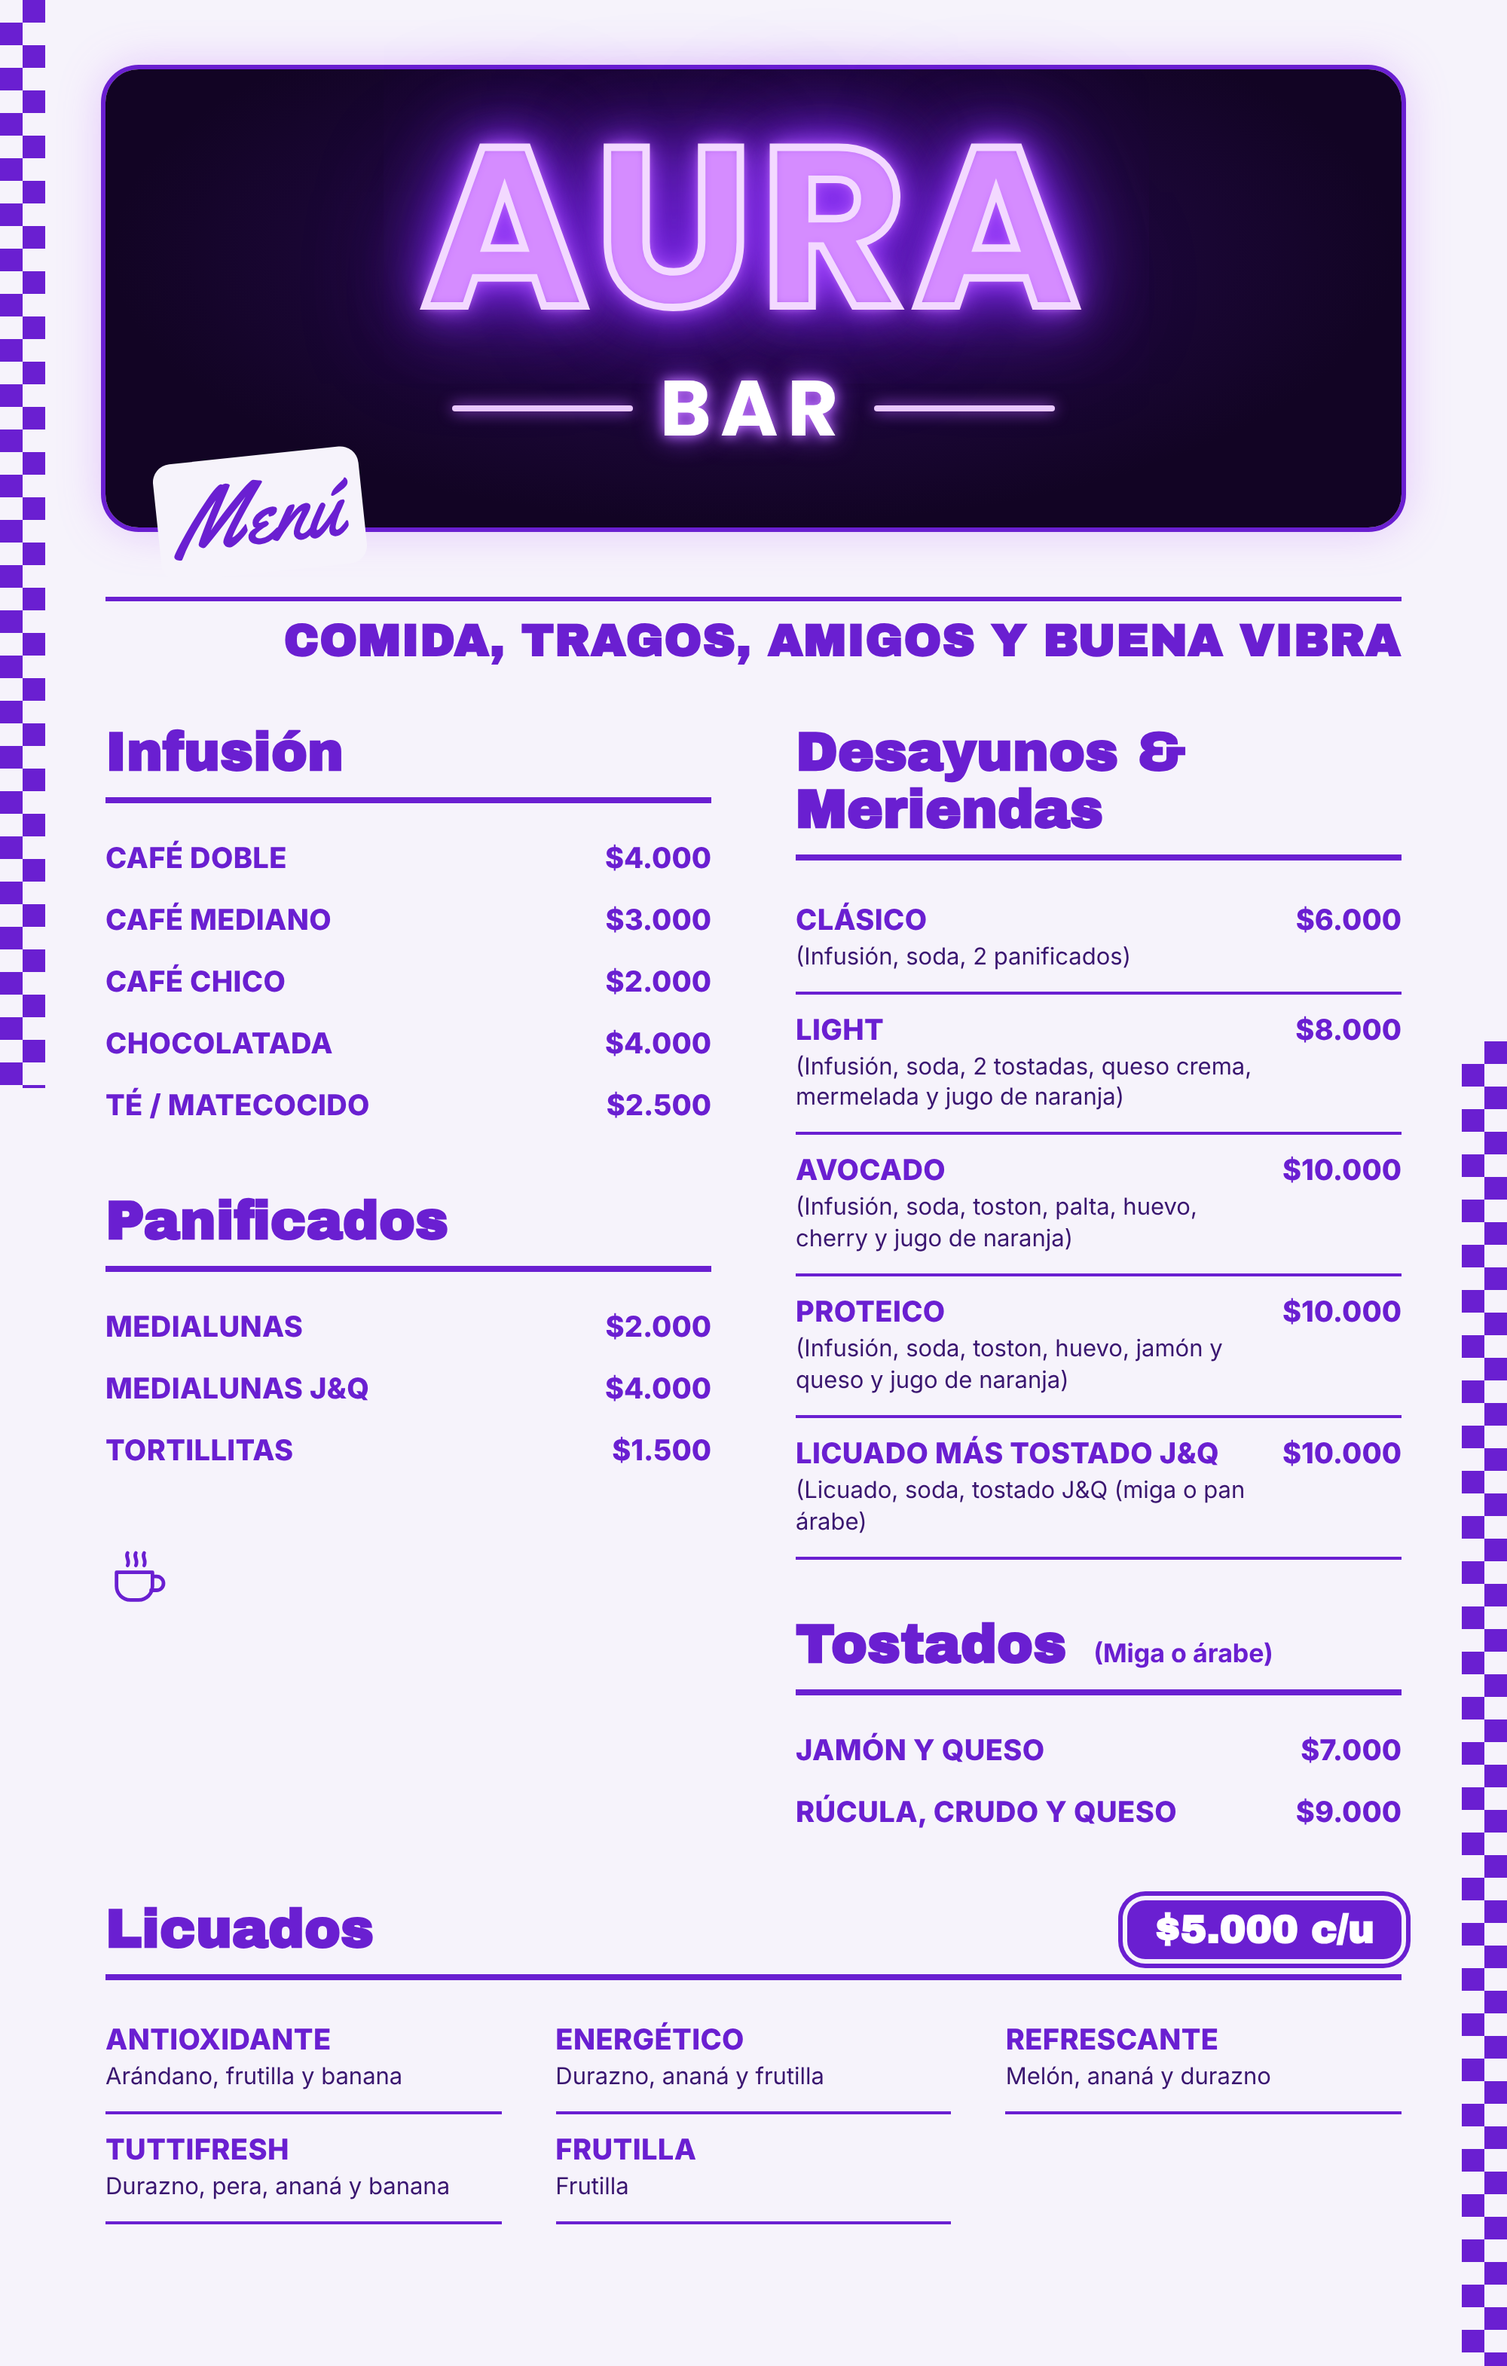
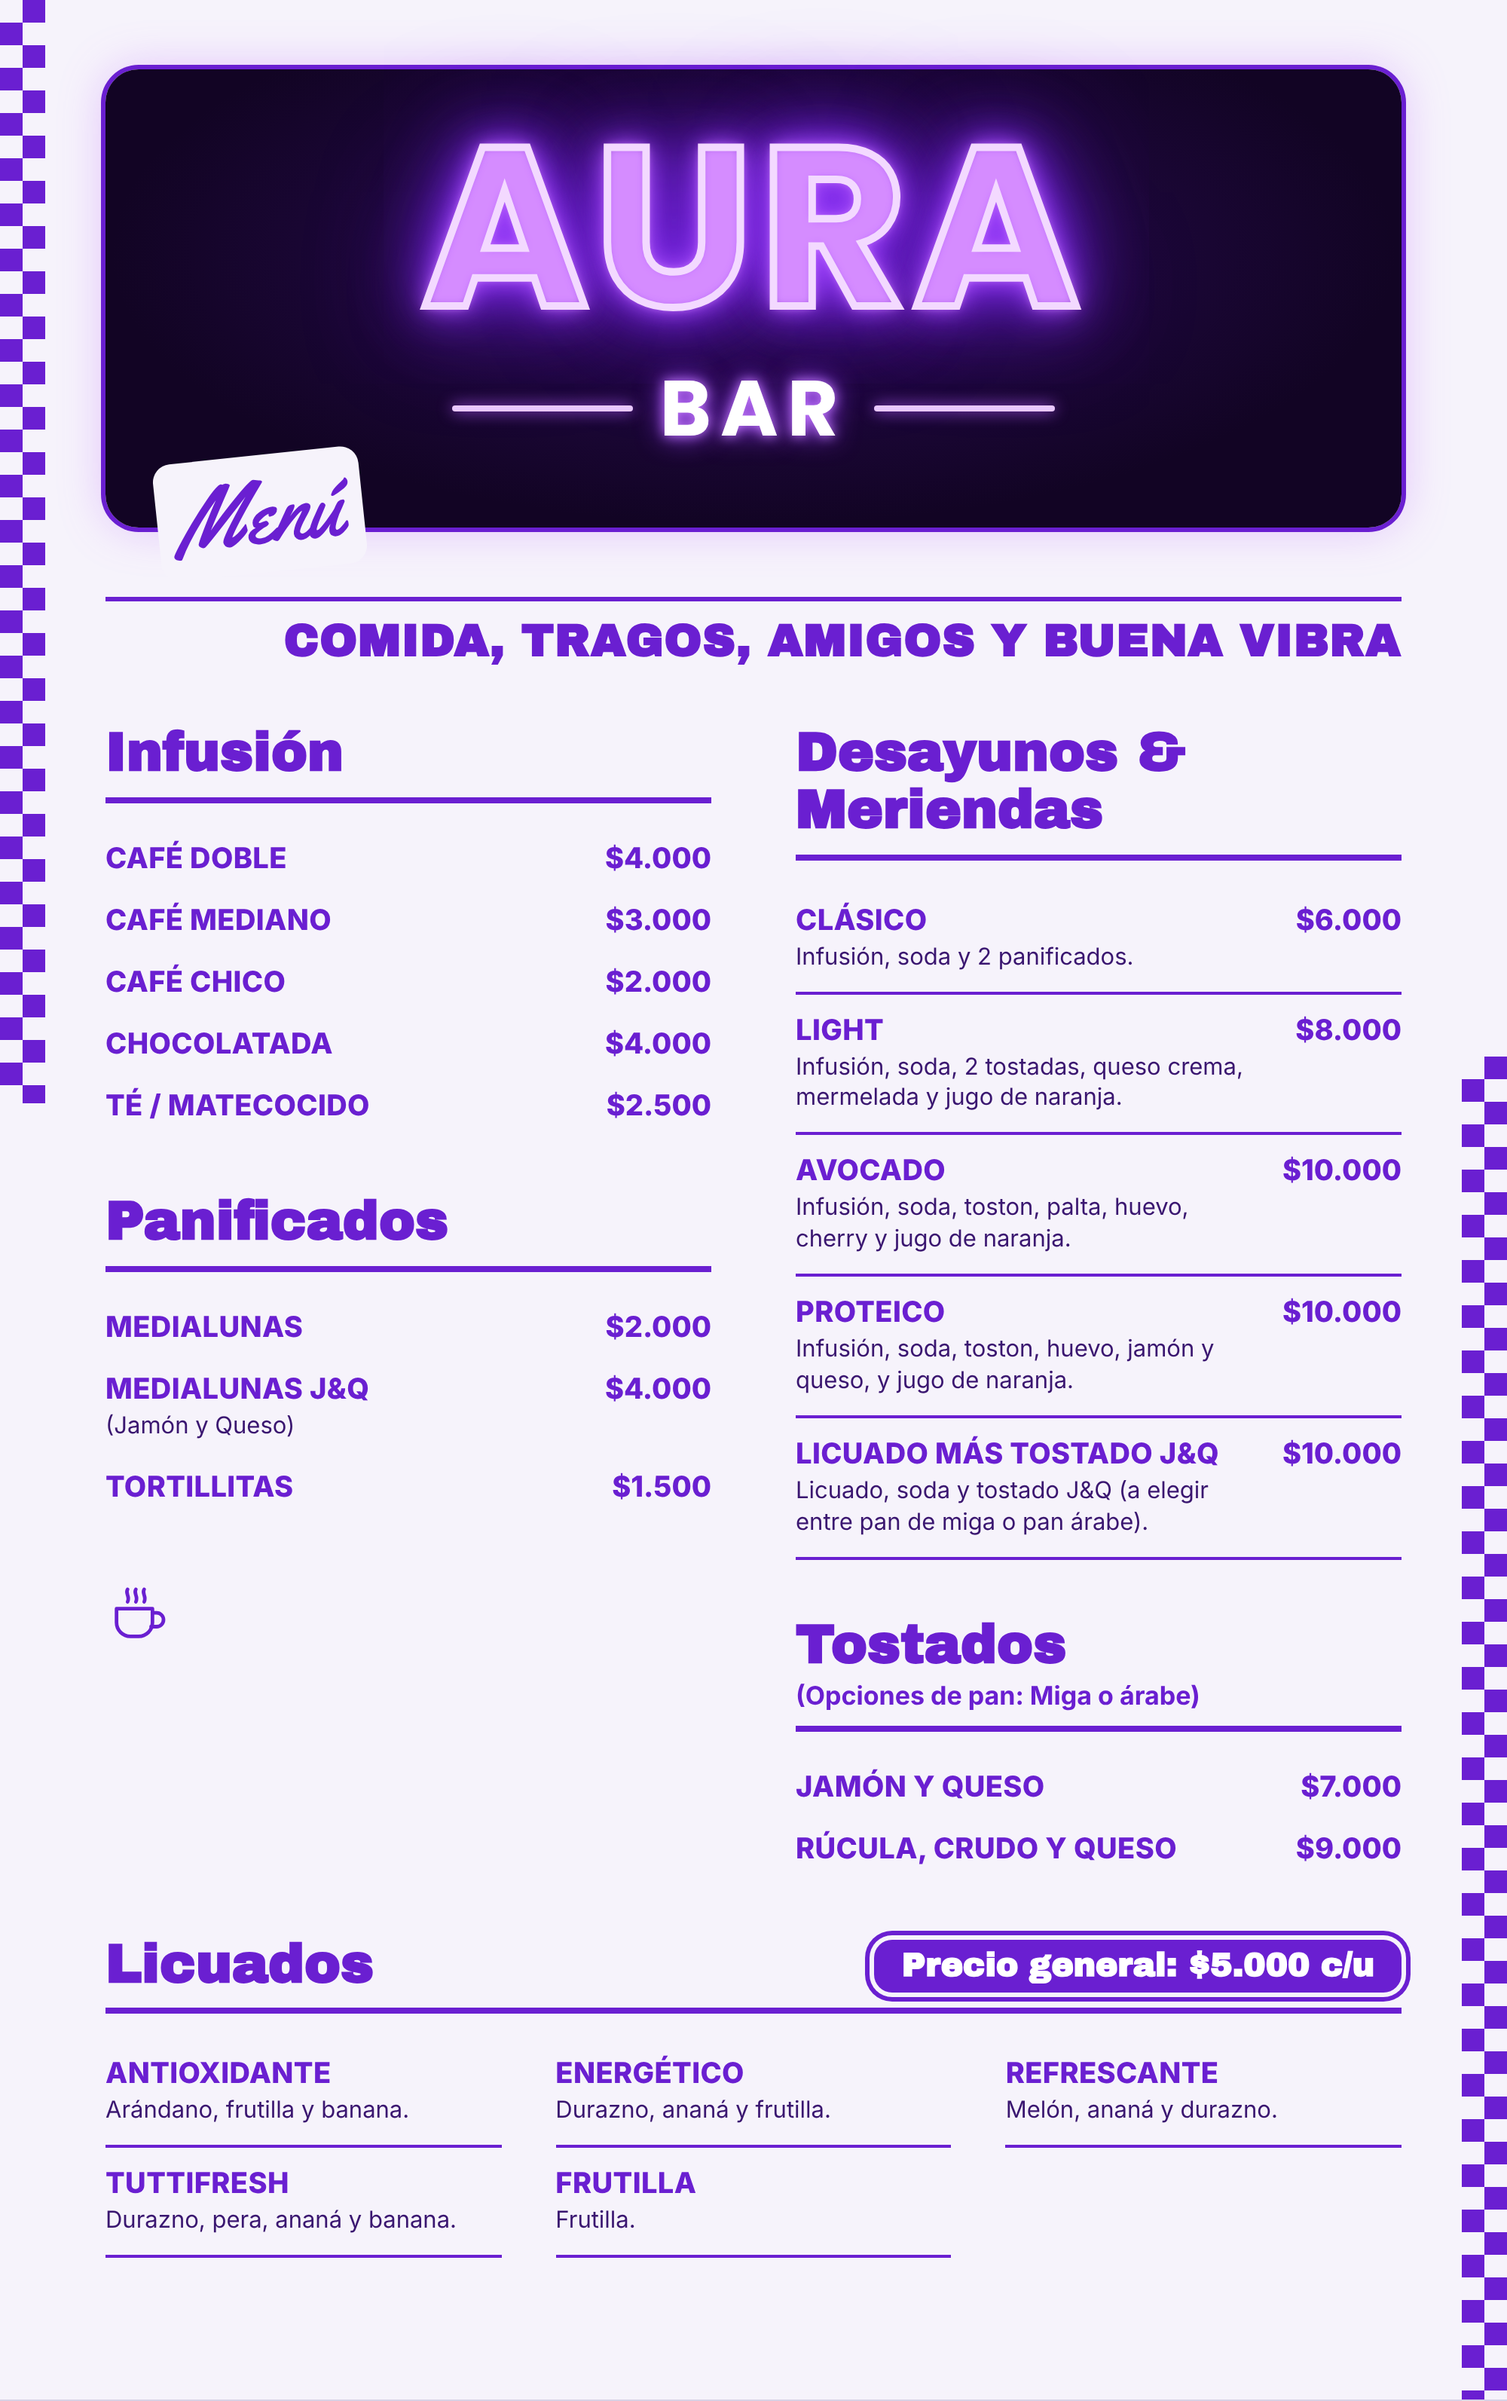
Actualizar textos del menú Aura Bar
Claude-Session: https://claude.ai/code/session_01W39ENhBwu2Tm4Hr9VmVDG2

diff --git a/menu-aura/menu.html b/menu-aura/menu.html
@@ -63,7 +63,7 @@
     font-family:"Archivo Black",sans-serif;font-size:36px;line-height:1.05;color:var(--v);
     border-bottom:4px solid var(--v);padding-bottom:10px;margin-bottom:16px;
   }
-  section h3 small{font-family:Inter,sans-serif;font-weight:700;font-size:17px;letter-spacing:0;margin-left:6px}
+  section h3 small{display:block;font-family:Inter,sans-serif;font-weight:700;font-size:17px;letter-spacing:0;margin-top:6px}
   .item{display:flex;justify-content:space-between;align-items:baseline;gap:16px;padding:9px 0}
   .item b{font-weight:800;font-size:19px;text-transform:uppercase;letter-spacing:.2px}
   .item .p{font-weight:800;font-size:19px;white-space:nowrap}
@@ -74,7 +74,7 @@
   /* ---------- LICUADOS ---------- */
   .lic h3{display:flex;justify-content:space-between;align-items:flex-end}
   .price-badge{
-    font-family:"Archivo Black",sans-serif;font-size:26px;color:#fff;background:var(--v);
+    font-family:"Archivo Black",sans-serif;font-size:22px;color:#fff;background:var(--v);
     padding:6px 18px;border-radius:12px;box-shadow:0 0 0 3px var(--paper),0 0 0 6px var(--v);
   }
   .lgrid{display:grid;grid-template-columns:repeat(3,1fr);gap:0 36px}
@@ -110,7 +110,7 @@
       <section>
         <h3>Panificados</h3>
         <div class="item"><b>Medialunas</b><span class="p">$2.000</span></div>
-        <div class="item"><b>Medialunas J&amp;Q</b><span class="p">$4.000</span></div>
+        <div class="item"><b>Medialunas J&amp;Q<span class="d">(Jamón y Queso)</span></b><span class="p">$4.000</span></div>
         <div class="item"><b>Tortillitas</b><span class="p">$1.500</span></div>
       </section>
 
@@ -124,15 +124,15 @@
     <div>
       <section class="lined">
         <h3>Desayunos &amp; Meriendas</h3>
-        <div class="item"><b>Clásico<span class="d">(Infusión, soda, 2 panificados)</span></b><span class="p">$6.000</span></div>
-        <div class="item"><b>Light<span class="d">(Infusión, soda, 2 tostadas, queso crema, mermelada y jugo de naranja)</span></b><span class="p">$8.000</span></div>
-        <div class="item"><b>Avocado<span class="d">(Infusión, soda, toston, palta, huevo, cherry y jugo de naranja)</span></b><span class="p">$10.000</span></div>
-        <div class="item"><b>Proteico<span class="d">(Infusión, soda, toston, huevo, jamón y queso y jugo de naranja)</span></b><span class="p">$10.000</span></div>
-        <div class="item"><b>Licuado más tostado J&amp;Q<span class="d">(Licuado, soda, tostado J&amp;Q (miga o pan árabe)</span></b><span class="p">$10.000</span></div>
+        <div class="item"><b>Clásico<span class="d">Infusión, soda y 2 panificados.</span></b><span class="p">$6.000</span></div>
+        <div class="item"><b>Light<span class="d">Infusión, soda, 2 tostadas, queso crema, mermelada y jugo de naranja.</span></b><span class="p">$8.000</span></div>
+        <div class="item"><b>Avocado<span class="d">Infusión, soda, toston, palta, huevo, cherry y jugo de naranja.</span></b><span class="p">$10.000</span></div>
+        <div class="item"><b>Proteico<span class="d">Infusión, soda, toston, huevo, jamón y queso, y jugo de naranja.</span></b><span class="p">$10.000</span></div>
+        <div class="item"><b>Licuado más tostado J&amp;Q<span class="d">Licuado, soda y tostado J&amp;Q (a elegir entre pan de miga o pan árabe).</span></b><span class="p">$10.000</span></div>
       </section>
 
       <section>
-        <h3>Tostados <small>(Miga o árabe)</small></h3>
+        <h3>Tostados <small>(Opciones de pan: Miga o árabe)</small></h3>
         <div class="item"><b>Jamón y queso</b><span class="p">$7.000</span></div>
         <div class="item"><b>Rúcula, crudo y queso</b><span class="p">$9.000</span></div>
       </section>
@@ -140,13 +140,13 @@
   </div>
 
   <section class="lic">
-    <h3>Licuados <span class="price-badge">$5.000 c/u</span></h3>
+    <h3>Licuados <span class="price-badge">Precio general: $5.000 c/u</span></h3>
     <div class="lgrid">
-      <div class="item"><b>Antioxidante<span class="d">Arándano, frutilla y banana</span></b></div>
-      <div class="item"><b>Energético<span class="d">Durazno, ananá y frutilla</span></b></div>
-      <div class="item"><b>Refrescante<span class="d">Melón, ananá y durazno</span></b></div>
-      <div class="item"><b>Tuttifresh<span class="d">Durazno, pera, ananá y banana</span></b></div>
-      <div class="item"><b>Frutilla<span class="d">Frutilla</span></b></div>
+      <div class="item"><b>Antioxidante<span class="d">Arándano, frutilla y banana.</span></b></div>
+      <div class="item"><b>Energético<span class="d">Durazno, ananá y frutilla.</span></b></div>
+      <div class="item"><b>Refrescante<span class="d">Melón, ananá y durazno.</span></b></div>
+      <div class="item"><b>Tuttifresh<span class="d">Durazno, pera, ananá y banana.</span></b></div>
+      <div class="item"><b>Frutilla<span class="d">Frutilla.</span></b></div>
     </div>
   </section>
 </div>
